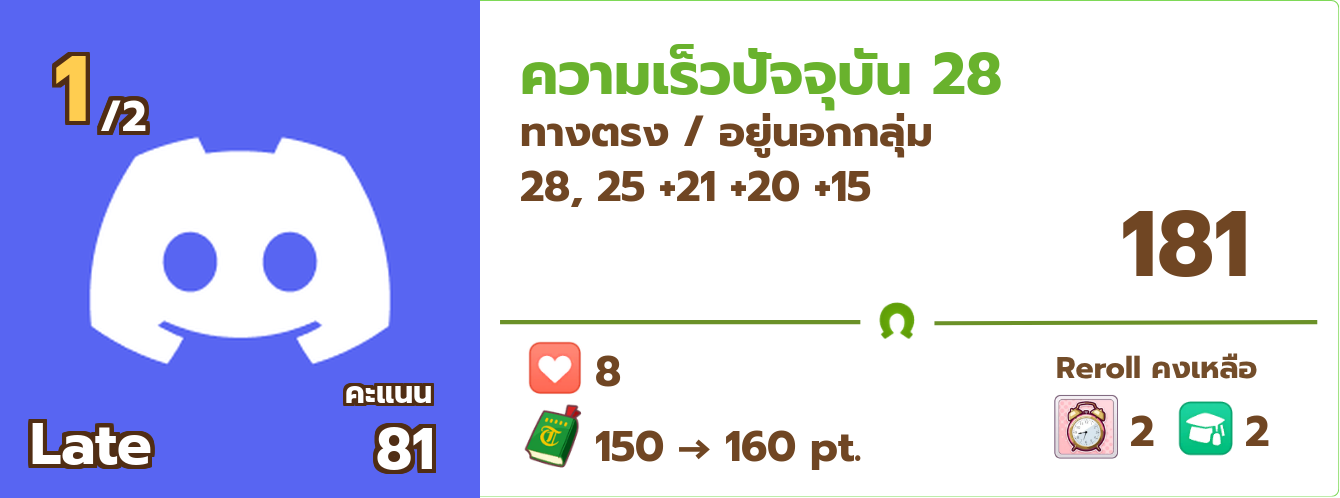
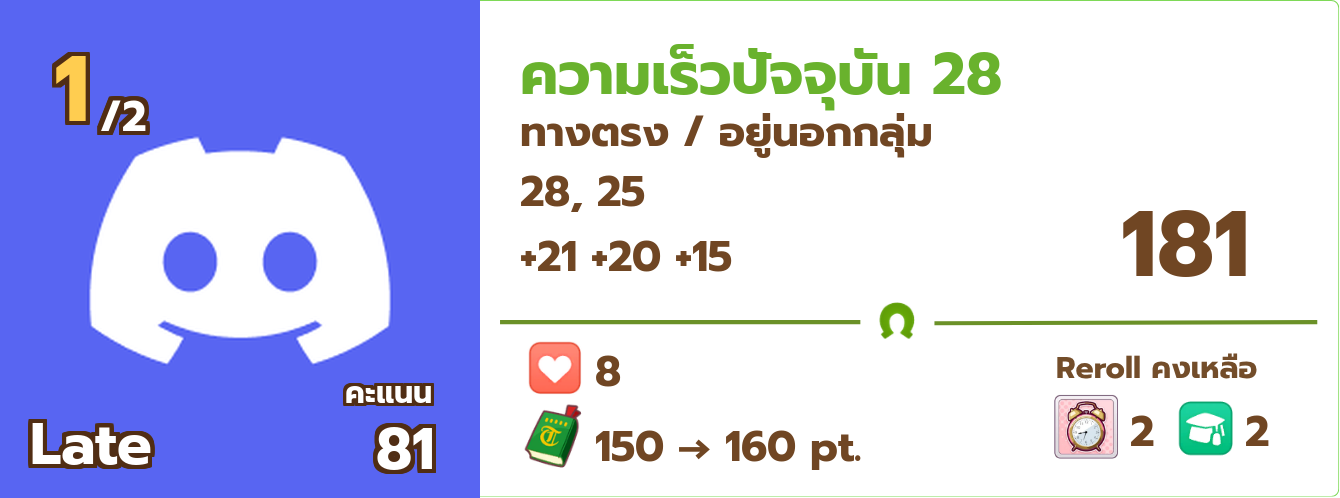
fix layout

Changed region(s): [[0.3672, 0.3313, 0.6731, 0.4217], [0.3672, 0.4819, 0.5507, 0.5422]]

diff --git a/utils/race_dice_preview.py b/utils/race_dice_preview.py
@@ -136,9 +136,9 @@ def draw_rich_text(card, draw, base_pos, tokens, font, color):
             icon_path = ICON_MAP.get(value)
 
             if icon_path and icon_path.exists():
-                icon = Image.open(icon_path).convert("RGBA").resize((36, 36), Image.LANCZOS)
+                icon = Image.open(icon_path).convert("RGBA").resize((42, 42), Image.LANCZOS)
                 card.paste(icon, (x + 4, y + 6), icon)
-                x += 46
+                x += 52
             else:
                 fallback = value
                 draw.text((x, y), fallback, font=font, fill=color)
@@ -256,16 +256,22 @@ async def create_race_dice_preview(
     display = result.get("display", "")
     bonus = result.get("bonus_display", "")
 
-    full_text = f"{display} {bonus}"
-
-    tokens = parse_display_text(full_text)
 
     draw_rich_text(
         card,
         draw,
-        (520, 155),
-        tokens,
-        font_small,
+        (520, 160),
+        parse_display_text(display),
+        font_mid,
+        brown
+    )
+
+    draw_rich_text(
+        card,
+        draw,
+        (520, 225),
+        parse_display_text(bonus),
+        font_mid,
         brown
     )
 
